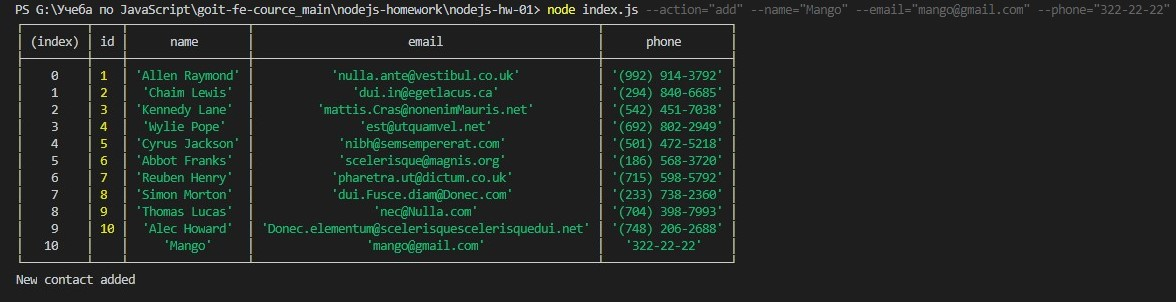
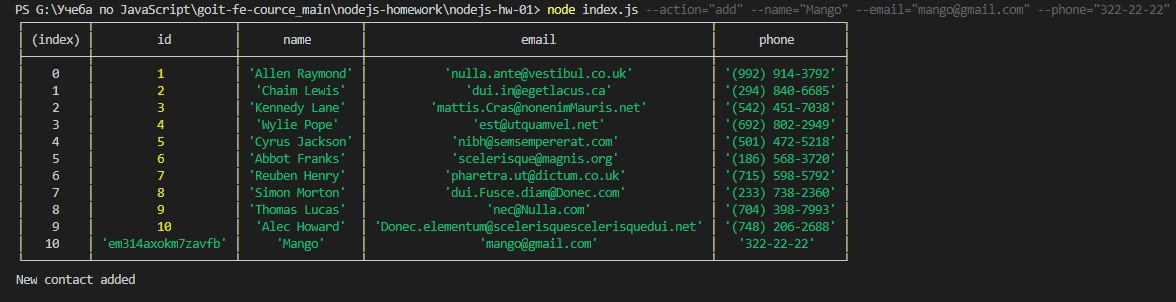
hw-01_uniqid

diff --git a/nodejs-hw-01/contacts.js b/nodejs-hw-01/contacts.js
@@ -1,6 +1,7 @@
 const fs = require('fs');
 const path = require('path');
-
+// const {v4:uuid} = require('uuid');
+const uniqid = require('uniqid');
 
 const contactsPath = path.join('db', 'contacts.json');
 
@@ -34,8 +35,7 @@ function listContacts() {
     fs.readFile(contactsPath, { encoding: 'utf-8' }, (err, data) => {
       try {
         const parsedData = JSON.parse(data);
-        const removeContactById = parsedData.filter(item => item.id !== contactId);
-  
+        const removeContactById = parsedData.filter(item => item.id !== contactId);  
         console.table(removeContactById);
         fs.writeFile(contactsPath, JSON.stringify(removeContactById), () => {
           console.log('Contact was removed');
@@ -51,6 +51,7 @@ function listContacts() {
         fs.readFile(contactsPath, {encoding: 'utf-8'},(err, data) => {
             try {
                 const parsedData = JSON.parse(data);
+                const  id = uniqid();
                 const newContact = {name, id, email, phone};
                 parsedData.push(newContact);
                 fs.writeFile(contactsPath, JSON.stringify(parsedData), () => {

diff --git a/nodejs-hw-01/index.js b/nodejs-hw-01/index.js
@@ -1,11 +1,11 @@
 const {listContacts, 
       getContactById, 
       removeContact, 
-      addContact,
+      addContact
 } = require('./contacts');
 const argv = require('yargs').argv;
 
-function invokeAction({ action, id, name, email, phone }) {
+function invokeAction({ action, name, email, phone, id }) {
     switch (action) {
       case 'list':
         listContacts();
